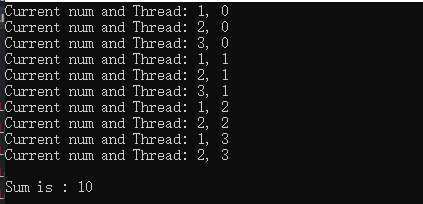
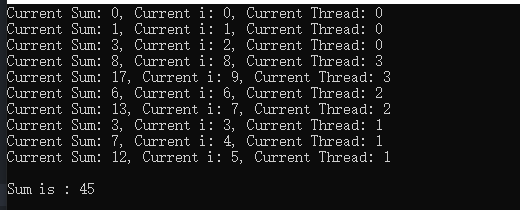
update pic

diff --git a/_posts/2020-07-13-OpenMPReducton.md b/_posts/2020-07-13-OpenMPReducton.md
@@ -16,7 +16,7 @@ tags:
 
 `reduction` is a key in OpenMP to apply multi-thread technique automatically during cumulative operation.
 
-It assign private variables to each thread with a initial value, accumulate them after exit threads. The accepted operations and the initial values are listed as follow:
+It assign private variables to each thread with a initial value, do the operation and accumulate them. The accepted operations and the initial values are listed as follow:
 
 operator| Private var initial value
 ---- | ----
@@ -41,13 +41,15 @@ int main() {
 #pragma omp parallel for reduction(+:sum)
 
 	for (int i = 0; i < 10; i++) {
-		sum += 1;
+		sum += i;
 		int num = omp_get_thread_num();
-		printf("Current num and Thread: %d, %d\n", sum, num);
+		printf("Current Sum: %d, Current i: %d, Current Thread: %d\n", sum, i, num);
 	}
 	printf("\nSum is : %d\n",sum);
 }
 ```
 
+How i in [0, 10) assigned to each thread:
+![](\img\hpc\reduction_2.png)
 Result:
 ![](\img\hpc\reduction_res1.png)
